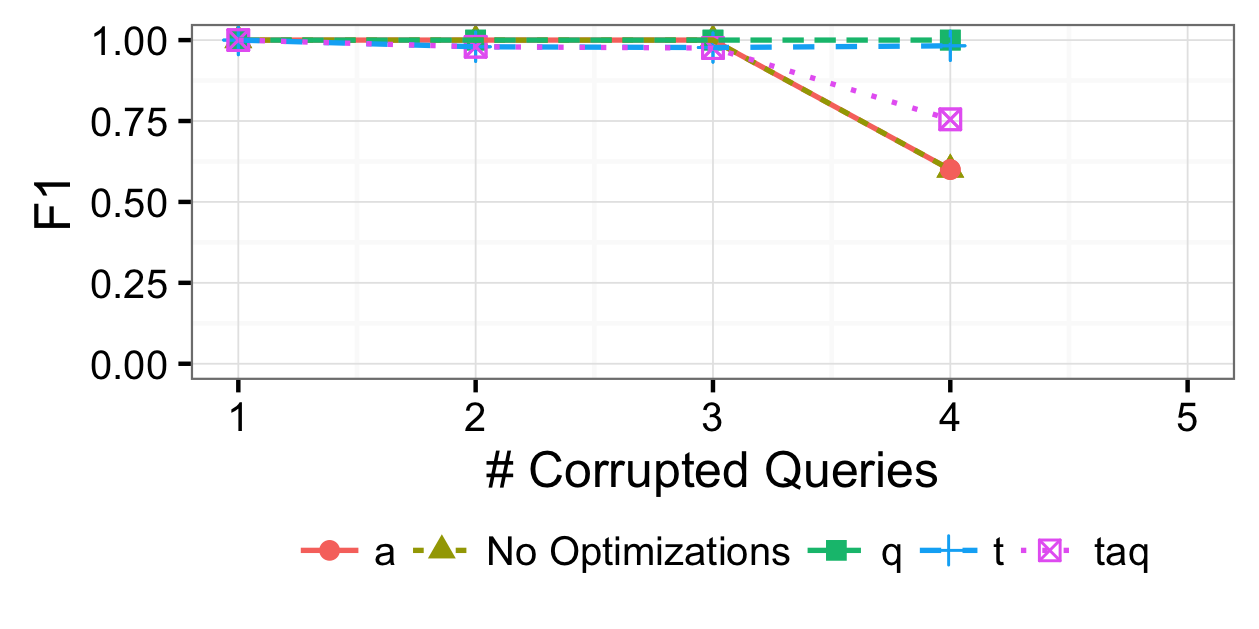
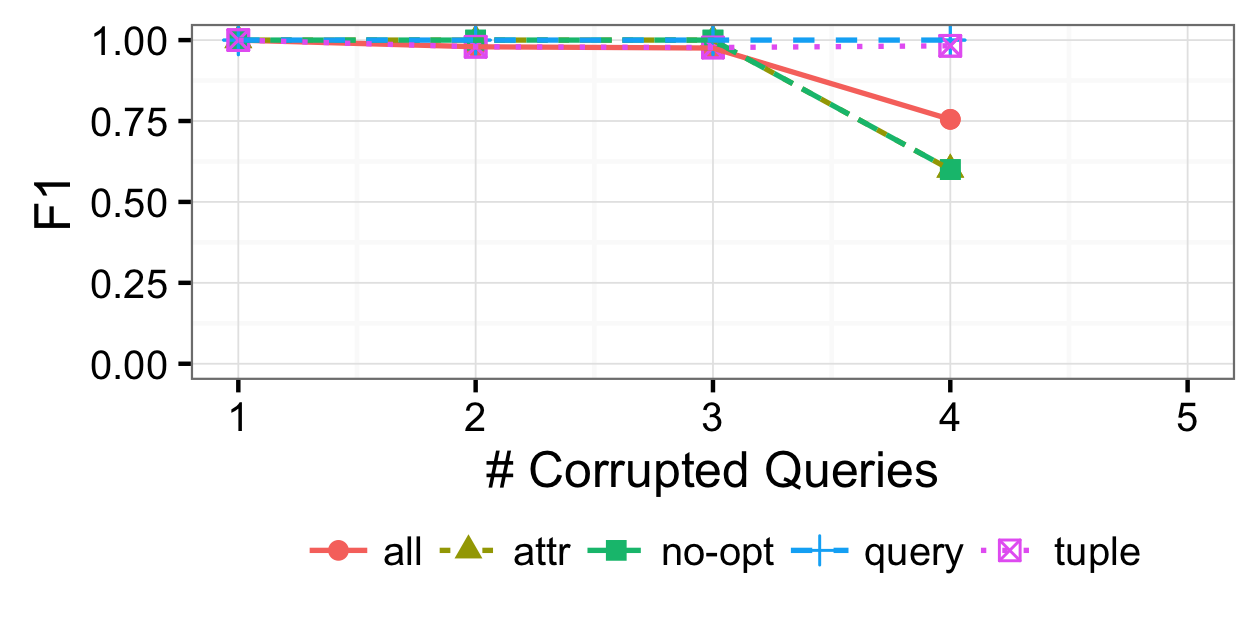
update in exps

Changed region(s): [[0.2478, 0.8458, 0.9293, 0.9062], [0.2168, 0.0302, 0.7744, 0.3021]]

diff --git a/docs/vldb16/content/xx-experiments.tex b/docs/vldb16/content/xx-experiments.tex
@@ -149,7 +149,7 @@ This subsection describes the query and data generation process in greater detai
 
 \stitle{Synthetic:} \label{sec:syntheticgen}
 We generate an initial database of $N_D$ random tuples.  
-The schema contains $N_a=5$ attributes $a_1\ldots a_5$, whose values are
+The schema contains $N_a=10$ attributes $a_1\ldots a_10$, whose values are
 picked from $V_d$ uniformly at random, along with a primary key $id$.
 We then generate a sequence of $N_q$ \texttt{UPDATE} queries~\footnote{\scriptsize We focus on
 \texttt{UPDATE} only query logs because they are the {\it predominant} cost 
@@ -168,7 +168,8 @@ only workloads to illustrate the differenc.} where
 \xlw{
 $X \& Y$ represents the \texttt{UPDATE} query type. $X$ represents the set clause type which can be either constant update ($Constant$) or
 relative update ($Relative$). Similarly, $Y$ represents the where clause type that can be either point update ($Poing$) or
-range update ($Range$)}. Note that the default setting of \texttt{UPDATE} query is $Constant/Range$.
+range update ($Range$)}. Note that the 
+we default focus on \texttt{UPDATE} queries with non-key predicates on range(s) and constant SET clauses.
 
 The \texttt{SET} clause sets the attribute to a random constant value in $V_d$ and 
 the \texttt{WHERE} clauses form a conjunction.  
@@ -186,12 +187,13 @@ The \texttt{WHERE} clauses in \texttt{DELETE} queries are generated in an identi
 \stitle{TPC-C:} We use the data and query workload over the {\it ORDER} table in TPC-C~\cite{tpcc}.  
 We generated a database at scale 1 with one warehouse, and kept the queries that modify the
 {\it ORDER} table. The initial table contains 6000 tuples and we ultimately generated a log with
-2000 queries, where $940$ are \texttt{UPDATE}s and the rest are \texttt{INSERT}s.
+2000 queries, where $1837$ are \texttt{INSERT}s and the rest are \texttt{UPDATE}s. 
 
 \stitle{TATP:} TATP workload simulates the 
 caller location system. We generate a database from {\it SUBSCRIBER} table
 with 5000 tuples and $2000$ \texttt{UPDATE} queries.\\
-Both TPC-C and TATP setups were generated using the OLTP-bench project~\cite{difallah2013oltp}.
+Both TPC-C and TATP setups were generated using the OLTP-bench project~\cite{difallah2013oltp}. 
+We corrupt up to -1500 queries to the most recent query.  
 }
 
 
@@ -279,36 +281,36 @@ We then establish the difficulty of repairing \texttt{UPDATE} workloads as compa
 
 
 \stitle{Multiple Corrupt Queries:}
-In this experiment, we compare the \xlw{non-incremental algorithm} with four types of algorithms
+In this experiment, we compare the exhaustive algorithm (no-opt) against 
+each slicing optimization individually($tuple, attr, query, all$), and all of them together with four types of algorithms. 
 $\sys_S$, where $S \in \{t, q, a, tqa\}$.  We use the default settings with $1000$ tuples and
 $50$ \texttt{update} queries.  We corrupt every tenth query starting from oldest query $q_0$,
 up to $q_{40}$.  For example, when we corrupt $3$ queries, we corrupt $q_{0,10,20}$.
-We find that the number of corruptions greatly affects both the scalabality (Figure~\ref{f:multi_time}) 
-and the accuracy (Figure~\ref{f:multi_acc}) of the algorithms.  Specifically, as the number increases,
+We find that the number of queries greatly affects both the scalabality (Figure~\ref{f:multi_time}) 
+and the accuracy (Figure~\ref{f:multi_acc}) of the algorithms. Specifically, as the number increases,
 the number of possible assignments of the MILP parameters increases exponentially and the solver often takes
 longer than our experimental time limit of $1000$ seconds and returns an infeasibility error.  
-This is a predominant reason why the accuracy degrades past $3$ corruptions.  For example, 
-when $4$ queries are corrupted and we ignore the infeasible executions, the average execution time is $300$ seconds
-and the precision and recall are greater than $0.94$.  Unfortunately, with \xlw{$5$ corruptions (50 queries)}, 
+This is a predominant reason why the accuracy degrades past $30$ queries.  For example, 
+when $40$ queries are involved (with $4$ corruptions) 
+and we ignore the infeasible executions, the average execution time is $300$ seconds
+and the precision and recall are greater than $0.94$.  Unfortunately, with $50$ queries ($5$ corruptions),
 all runs exceed the time limit.
 
 \stitle{Single Query Optimization:}
 \xlw{
 In this experiment, we evaluate the efficacy of the incremental repair algorithm (Section~\ref{sec:incremental})
-in the special case when only one query has been corrupted. We first compare the incremental algorithm $\sys_{inc-1}$ 
-with or without
-tuple slicing optimization, Figure~\ref{f:singlequeryinc_time} highlights the scalability limitation of the incremental 
-algorithm without tuple slicing: with 50 queries $\sys_{inc-1}$ could easily runs exceed the 1000 seconds.  
-We further compare the incremental algorithm with 4 different 
-incremental step sizes $\sys_{t, S}$, where $S \in \{inc-1, inc-2, inc-4, inc-8\}$. 
-Figure~\ref{f:singlequeryinc_acc} shows a significant drop in accuracy as we increase the incremental step since 
-the failure rate of the MILP problem is positive proportional to the incremental step.}
+in the special case when only one query has been corrupted. We compare 
+incremental without tuple slicing (basic, $no-opt$) against with tuple slicing at different batching levels of 1, 2, 8 ($1,2,8$). 
+Figure~\ref{f:singlequeryinc_time} highlights the scalability limitation of the incremental 
+algorithm without tuple slicing: with 50 queries $\sys_{inc-1}$ could easily runs exceed the 1000 seconds.   
+In addition, Figure~\ref{f:singlequeryinc_acc} also shows a significant drop in accuracy as we increase the incremental level since 
+the failure rate of the MILP problem is positive proportional to the incremental level.}
 
 
 \stitle{Query Type Experiment:}\label{sec:indelup}
 \xlw{
 Our final preliminary experiment evaluates the incremental, tuple-slicing algorithm 
-$\sys_{t,inc-1}$ on insert, delete, or update-only workloads.
+$\sys$ on insert, delete, or update-only workloads.
 We increase the number of queries from $1$ to $200$ and corrupt the oldest query in the log.  
 Figure~\ref{f:indelup_time} shows that while the cost of repairing insert workloads
 remains relatively constaint, the cost for delete-only and update-only workloads increase as 
@@ -321,21 +323,21 @@ have severe scalability limitations due to the large number of undetermined valu
 since MILP constraint solving is a known NP-hard problem.
 In contrast, we find that the incremental algorithms are more effective at scaling to larger query log sizes.  
 Furthermore, we show that \texttt{UPDATE}-only workloads are significantly more expensive to repair than other 
-query types. \xlw{Based on the result, we consider 
-algorithm $\sys_{t,inc-1}$ as default setting in the rest of the experiment and we only consider \texttt{UPDATE}-only workload in synthetic experiments in Section~\ref{sec:experiments:synth}}. 
+query types. \xlw{Based on the result, we consider incremental
+algorithm $\sys$ with tuple slicing as default setting in the rest of the experiment and we only consider \texttt{UPDATE}-only workload in synthetic experiments in Section~\ref{sec:experiments:synth}}. 
 }
 
 
 \subsection{Benchmark}
 \label{sec:experiments:benchmark}
-Figure~\ref{f:benchmark} plots the performance of the incremental and optimized algorithm ($\sys_{t,inc-1}$)
-on both benchmark applications.  In both workloads, the latency to derive a repair was consistenly less
-than $5$ seconds, and for TPC-C, on the order of milliseconds.  The precision and recall measures were
+Figure~\ref{f:benchmark} plots the performance of the incremental and optimized algorithm ($\sys$)
+on TPC-C and TATP benchmark applications.  In both workloads, the latency to derive a repair efficiently,
+and for TPC-C, on the order of milliseconds where all corrupted queries are \texttt{INSERT}s. 
+The precision and recall measures were
 $1$ both all settings.   One reason for the good performance is due to the fact that the benchmark queries
 are pre-dominantly point update queries.  In this setting, each tuples affects a very small set of 
 tuples, which results in $1$ or $2$ complaints on average.  In this case, the tuple and query slicing algorithms
-reduce the total number of constraints for almost every setting to less than $100$.   \xlw{Rewrite needed after experiment is done. }
-
+reduce the total number of constraints for almost every setting to less than $100$. 
 \begin{figure}[h]
 \label{f:benchmark} 
 \centering
